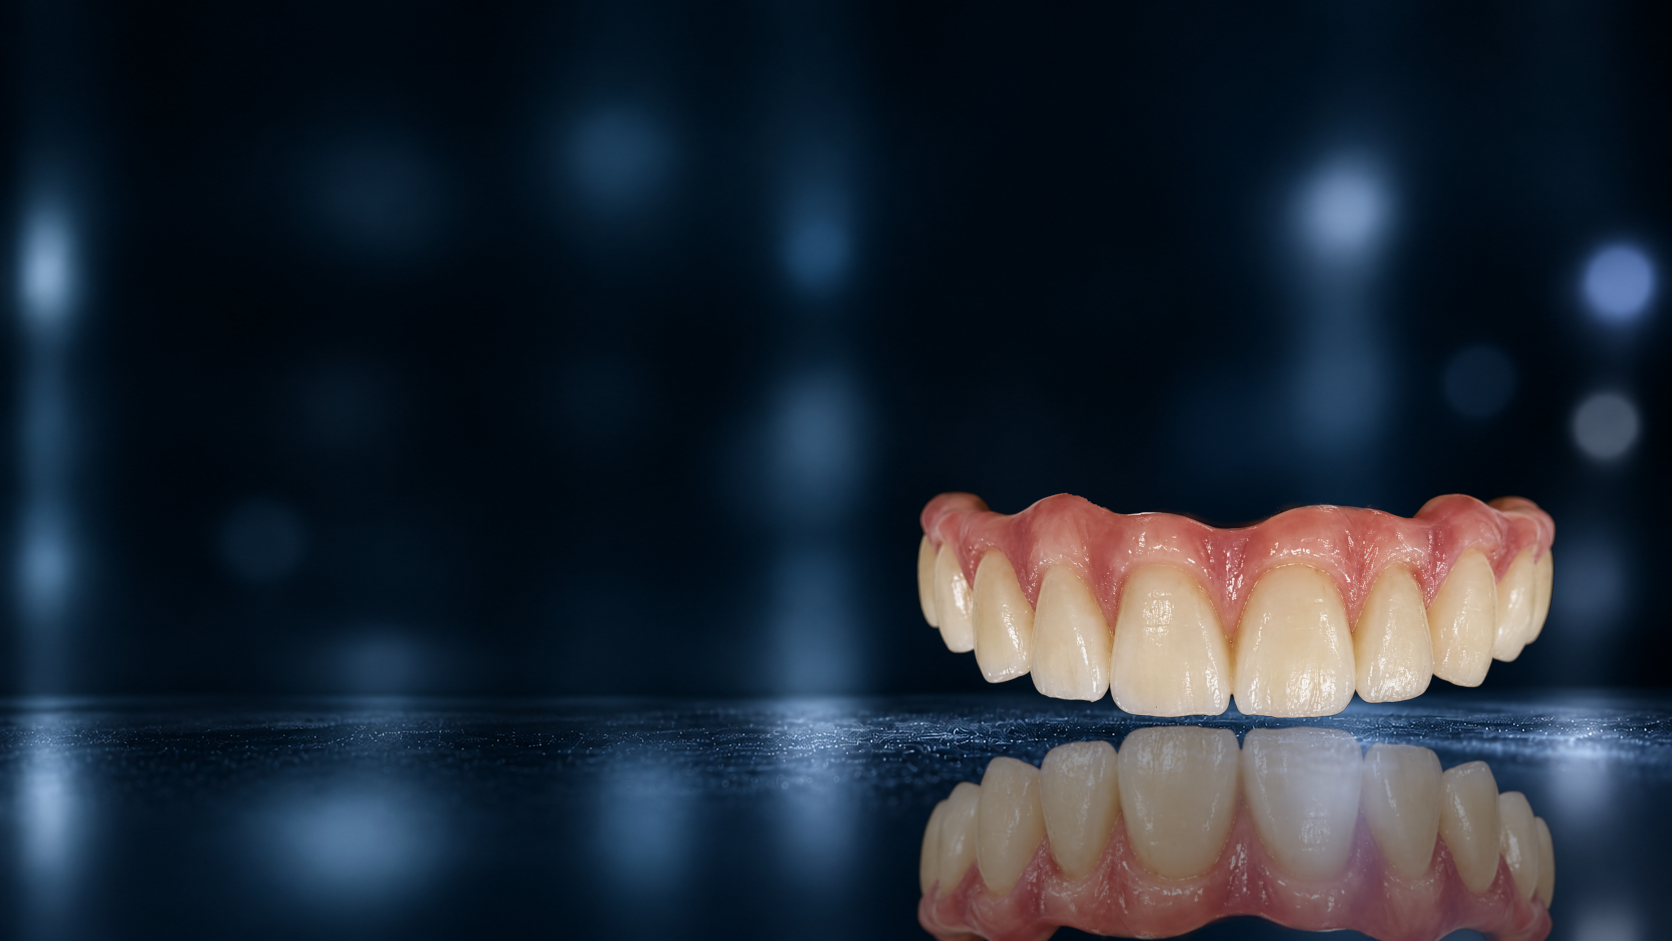
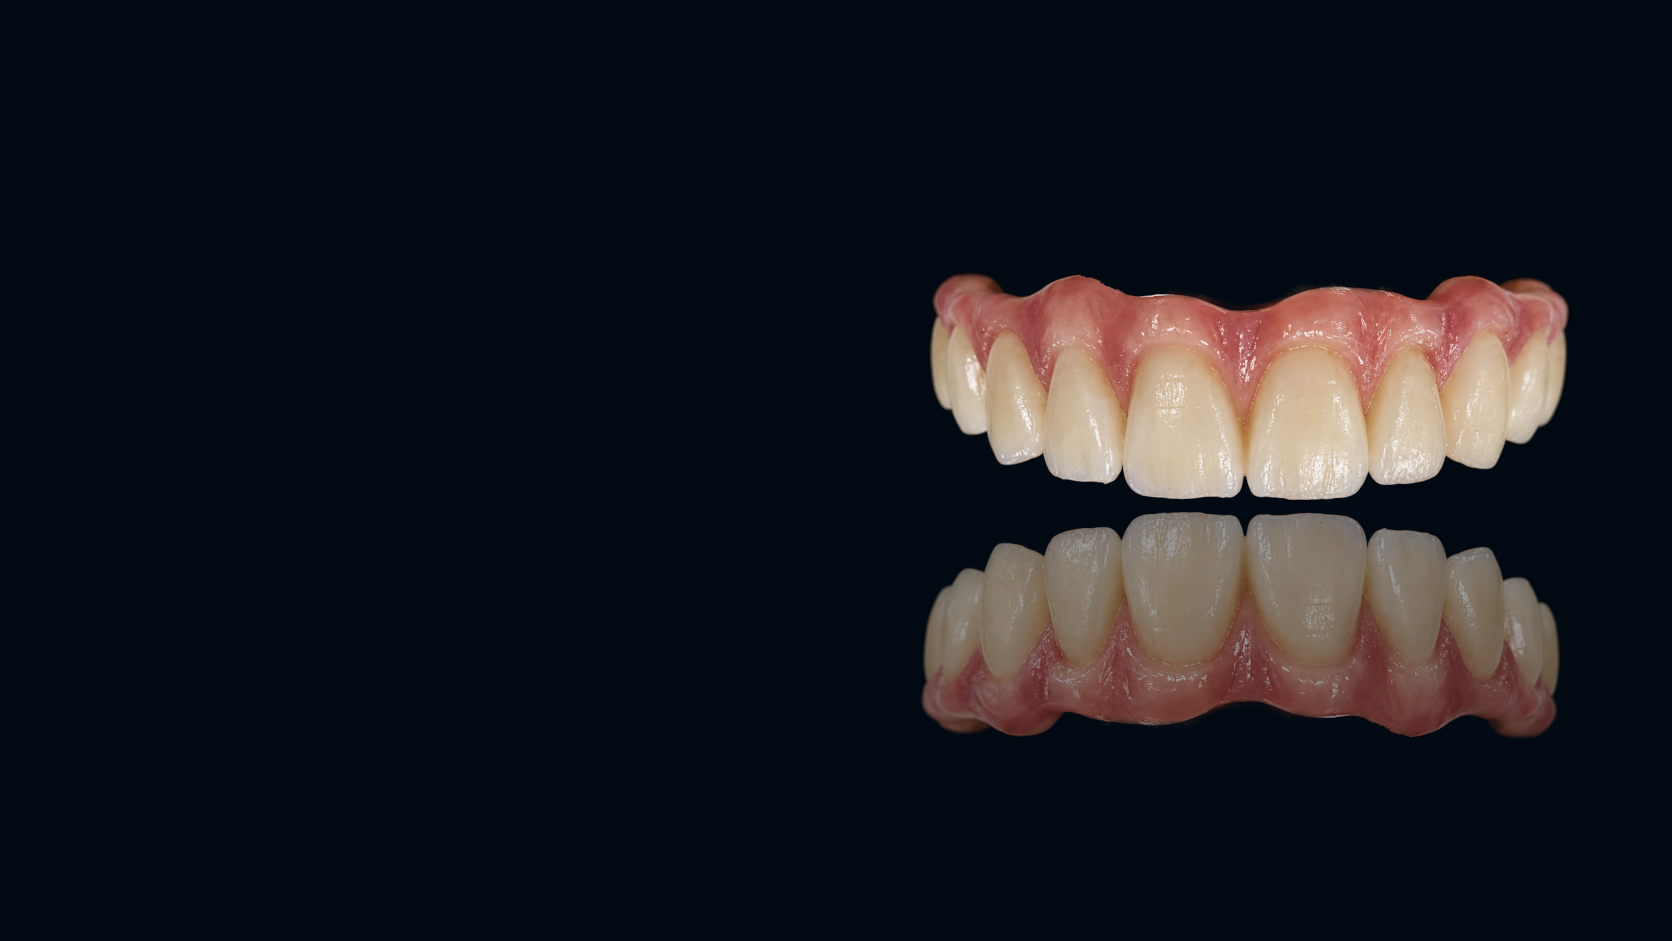
feat: update background images

diff --git a/index.html b/index.html
@@ -1435,7 +1435,7 @@
                                     <div class="absolute top-0 left-0 right-0 h-[2px] bg-gradient-to-r from-transparent via-ice-500/40 to-transparent"></div>
 
                                     <!-- 히어로 프리뷰 이미지 -->
-                                    <div class="relative h-56 sm:h-72 bg-navy-900 overflow-hidden border-b border-[rgba(145,205,224,0.12)]">
+                                    <div class="relative h-56 sm:h-72 bg-[rgb(17_16_16)] overflow-hidden border-b border-[rgba(145,205,224,0.12)]">
                                         <img src="img/03_product_zirconia.png"
                                             alt="Zirconia dental restorations" 
                                             class="w-full h-full object-contain filter brightness-90 group-hover:scale-105 transition-all duration-700"
